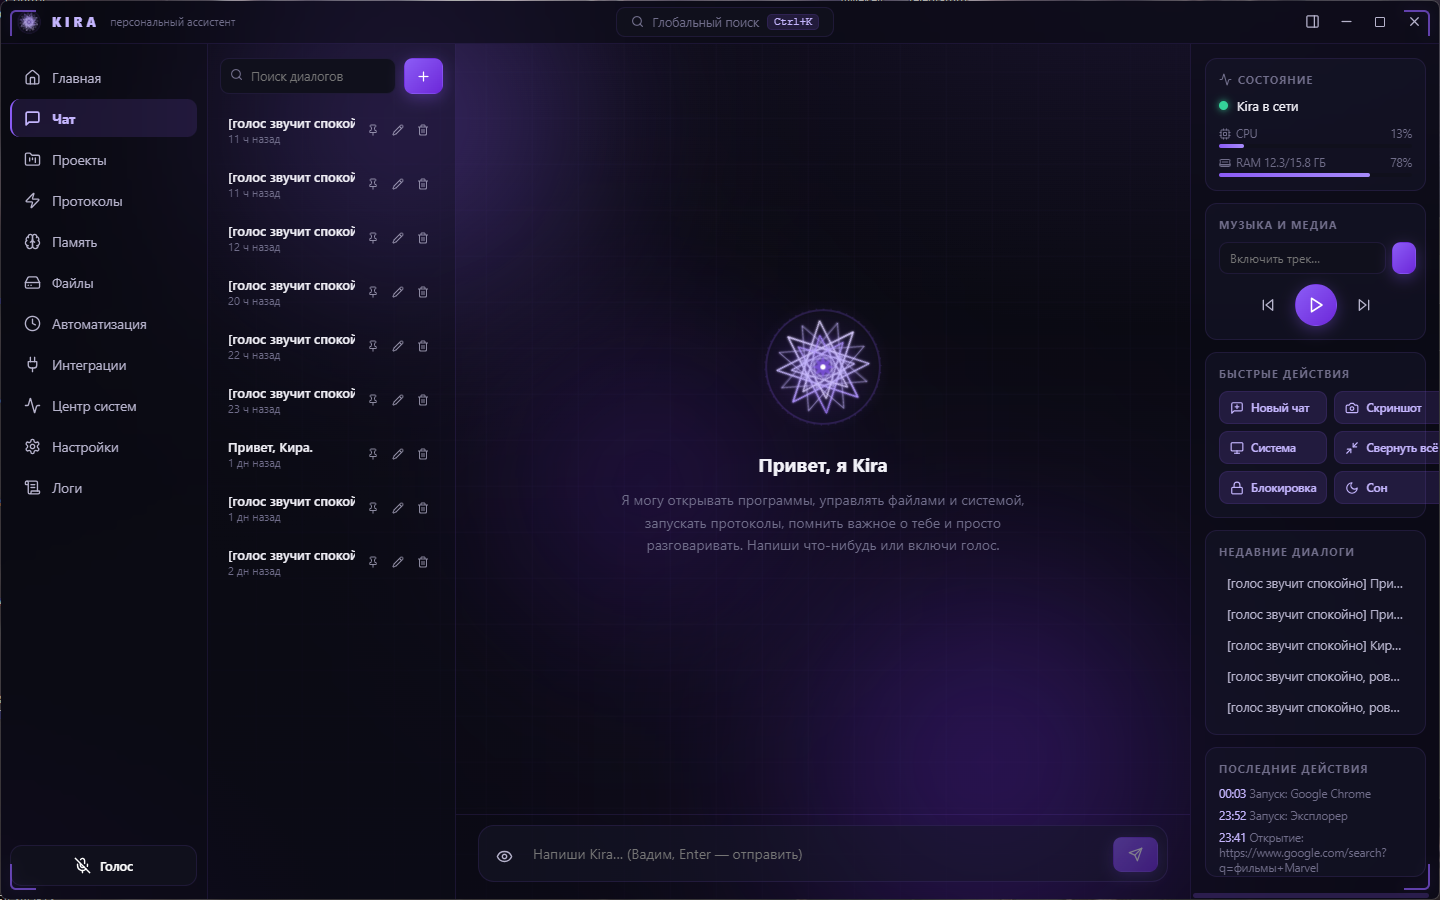
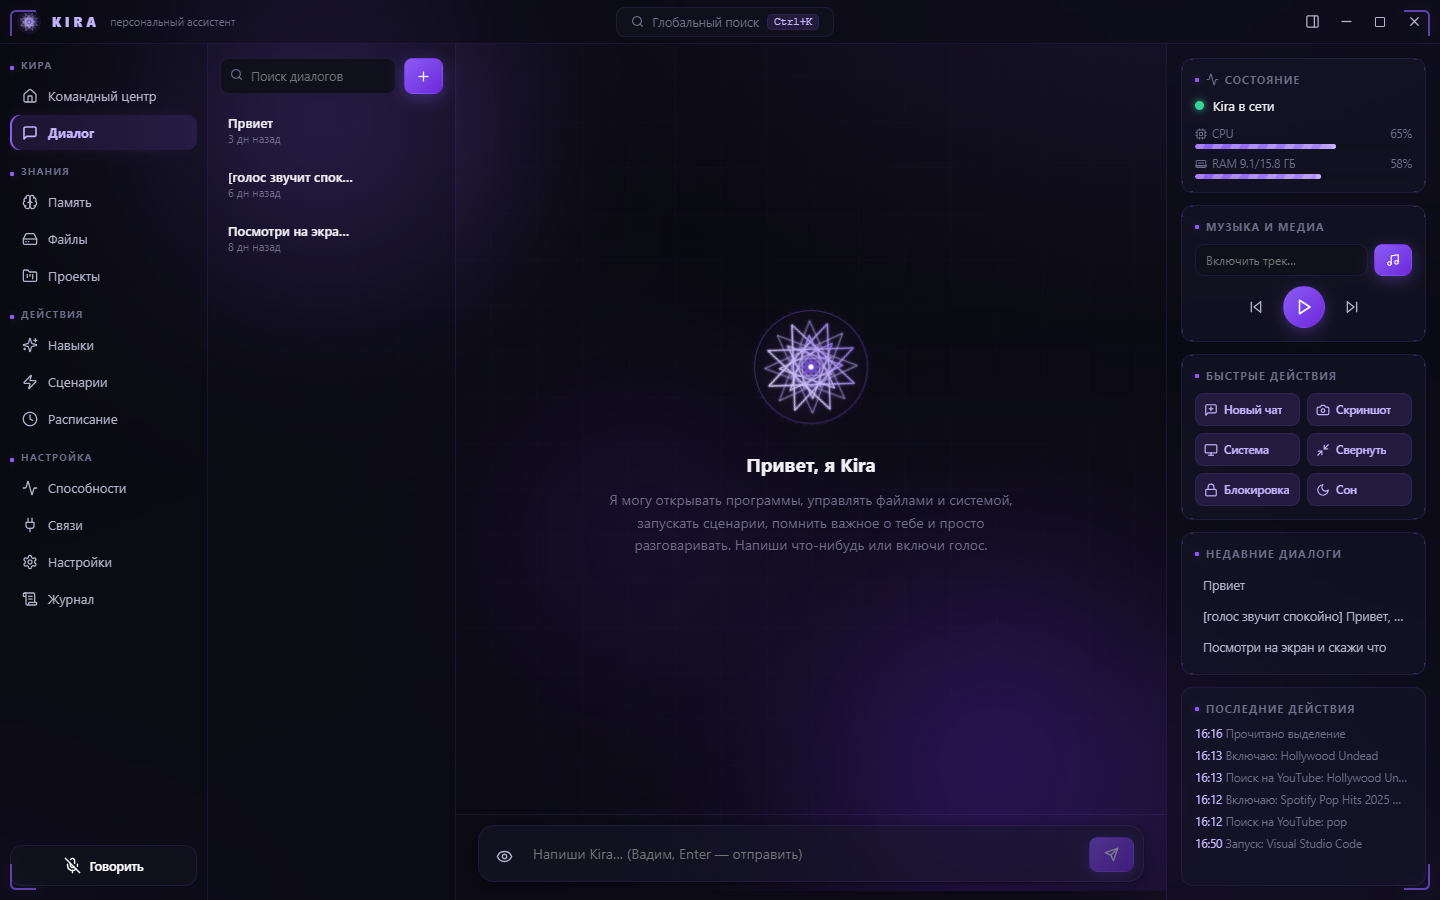
docs: обновлены README и скриншоты под новый интерфейс
- Свежие скриншоты командного центра и диалога — с новой навигацией
  (сгруппированной), живым блоком зрения, глубиной и HUD-акцентами.
- «Видит экран» переписано: теперь Кира видит его ПОСТОЯННО и отвечает на
  «что тут?» без команд, а смотрит только когда картинка меняется.
- Добавлен пункт про живой интерфейс: сцена реагирует на голос, без
  технических терминов в текстах.
- Подписи к скриншотам приведены к новым названиям экранов.
- В схеме архитектуры было «84 действия» — стало 86.

diff --git a/README.md b/README.md
@@ -33,13 +33,13 @@
 ## 🖼 Как выглядит
 
 <p align="center">
-  <img src="docs/screenshots/home.png" alt="Kira — главный экран" width="100%">
-  <br><em>Главный экран: всё под рукой — статус, диалоги, быстрые действия</em>
+  <img src="docs/screenshots/home.png" alt="Kira — командный центр" width="100%">
+  <br><em>Командный центр: живое состояние, что Кира видит, память о тебе — всё на одном экране</em>
 </p>
 
 <p align="center">
   <img src="docs/screenshots/chat.png" alt="Kira — чат" width="100%">
-  <br><em>Живой чат с фирменной эмблемой Kira</em>
+  <br><em>Диалог: голосом или текстом — Кира отвечает и сразу делает</em>
 </p>
 
 ---
@@ -97,7 +97,9 @@
 
 ## 🧠 Что ещё умеет
 
-- **Видит экран** — «что тут на экране?», а ещё **читает текст с экрана офлайн** (OCR).
+- **Всегда видит экран** — Кира в курсе, что у тебя перед глазами, и отвечает на
+  «что тут?» сразу, без команд. Смотрит только когда картинка меняется, поэтому
+  компьютер не грузит. Всё распознаётся на твоём компьютере и никуда не уходит.
 - **База знаний по документам** — проиндексирует твою папку с файлами (PDF, Word, заметки) и отвечает по их **смыслу**, ничего не отправляя в сеть.
 - **Помнит тебя** — важные факты, предпочтения, твой профиль. Не нужно повторять по кругу.
 - **Помнит буфер** — история копирования, «вставь предыдущее», сниппеты-заготовки.
@@ -106,6 +108,9 @@
 - **Следит за ПК** — что грузит память/процессор, автозагрузка, чистка временных файлов.
 - **Проактивна** — утренний брифинг, напоминания (в т.ч. повторяющиеся), заботливые подсказки.
 - **Интеграции** — Obsidian, Notion, Google Календарь, Gmail (умная выжимка входящих), Discord, Telegram.
+- **Живой интерфейс** — сцена дышит вместе с Кирой: фон и рамка экрана реагируют
+  на твой голос, панели «парят», всё отзывается на движение. Никаких технических
+  терминов — только понятные человеку слова.
 
 ---
 
@@ -163,7 +168,7 @@ Kira — **не обёртка над ChatGPT**, а самостоятельна
                               │
                               ▼
         ┌─────────────────────────────────────────────┐
-        │       ACTION API  ·  84 действия             │
+        │       ACTION API  ·  86 действий             │
         │   единый контракт: execute / undo / validate  │
         └─────────────────────────────────────────────┘
                               │
@@ -213,7 +218,7 @@ src/
 ```bash
 npm install
 npm run dev          # запуск в режиме разработки
-npm run test:core    # тесты ядра (86 интентов + движок)
+npm run test:core    # тесты ядра (интенты + движок)
 npm run dist         # установщик Windows
 ```
 
